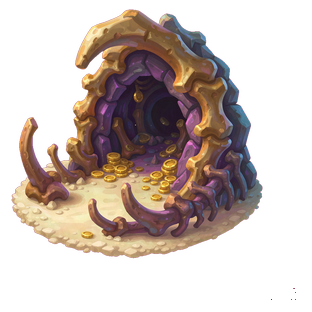
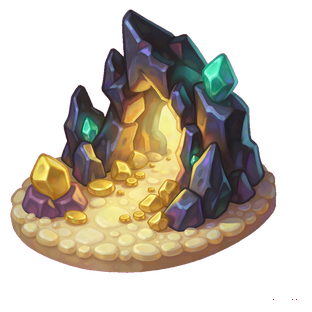
feat(art): 兵营V4风格统一与形态修订（10张：塔楼降级/维京长屋/去龙骨/去线稿提亮/冷色点缀）

diff --git a/tools/expand-barracks-v4-prompts.py b/tools/expand-barracks-v4-prompts.py
@@ -1,0 +1,147 @@
+#!/usr/bin/env python3
+# -*- coding: utf-8 -*-
+"""展开兵营 V4 迭代的完整 prompt（10 张）。
+
+- 02/10/40：形态修正（塔楼降级 / 维京长屋 / 去龙骨洞窟）
+- 07/14/25/29/31/32/33：形态不变，只统一画风（去线稿淡彩→圆润厚涂、提亮暗部、冷色点缀）
+
+风格锚点从 V2 方案文档逐字抽取，避免手抄漂移。
+用法: python3 tools/expand-barracks-v4-prompts.py
+输出: .workbuddy/art-staging/western-redraw-v4/prompts.json
+"""
+import json
+import re
+from pathlib import Path
+
+ROOT = Path(__file__).resolve().parent.parent
+DOC = (ROOT / "docs/art/ART-BARRACKS-V2-NONBUILDING-REDRAW.md").read_text(encoding="utf-8")
+
+
+def block(after):
+    i = DOC.index(after)
+    return re.search(r"```\n(.*?)\n```", DOC[i:], re.S).group(1).strip()
+
+
+SEG1 = block("### 段 1 ·")
+SEG1A = block("### 段 1A")
+SEG4 = block("### 段 4")
+NEG_BASE = block("### Negative prompt（B/C/D 档")
+NEG_AB = block("### Negative prompt · A/B 档")
+
+# 所有图共享的画风锚：去线稿 + 圆润厚涂 + 提亮暗部 + 冷色点缀
+STYLE_UNIFY = (
+    " CRITICAL STYLE MATCH — this must look like the SAME asset family as the rest of the barracks: "
+    "painterly thick-rounded brushwork, plump soft forms, smooth color transitions, chunky simplified shapes, "
+    "clean glossy candy-like highlights. NO black ink outlines, NO line art, NO sketch lines, NO flat cel shading, "
+    "NO black contour strokes around shapes, NO fine detailed linework. "
+    "Lift all dark shadow areas so the building reads clearly and never becomes a black mass; "
+    "shadows must be colored (indigo, teal or warm brown), NEVER pure black. "
+    "Add a few cool accent details (sky blue, teal or turquoise banners, gemstones, roof trim or magical glow) "
+    "to balance the otherwise warm gold palette. Keep it soft, round, bright and cartoon-like."
+)
+
+SCENE_FRAME = (
+    "Square 1:1 canvas, the whole scene centered slightly low, full scene including the elliptical stone "
+    "base fills about 82 percent of canvas width, 8 to 10 percent clean margin on all sides, no cropping, "
+    "no perspective drift, flat even framing."
+)
+BUILD_FRAME = (
+    "Square 1:1 canvas, building centered slightly low, full building including the elliptical stone base "
+    "fills about 82 percent of canvas width, 8 to 10 percent clean margin on all sides, no cropping, no "
+    "perspective drift, flat even framing."
+)
+
+NEG_EXTRA = (
+    "black outlines, line art, ink sketch, black contour, harsh dark edges, cel shading, flat shading, "
+    "pure black shadows, muddy dark mass, grayscale, monochrome, realistic texture, fine linework"
+)
+
+# kind, name, BUILDING/SCENE, MAT, ACC, SIG, PROP, SIGPCT, SIGW, SUBJ, EXTRA
+DATA = {
+    # --- 形态修正 3 张 ---
+    "02": ("build", "弓箭手-箭术训练场(降级对标剑士枪兵)",
+           "a modest Western fantasy archery training range, a low open timber shooting shelter with straw butt targets along a wooden fence and a small archery platform; deliberately simple and rustic like a training yard, NOT a grand stone castle tower, NOT high walls, NOT a tall spire",
+           "honey timber, straw and rope", "deep red and sky blue",
+           "a medium ornate red recurve bow mounted on the timber shelter as a simple emblem",
+           "straw targets, quivers and arrow racks", 25, 15, "building",
+           " The building must be simple and low-status, matching a plain swordsman training yard or spearman camp. NO tall stone tower, NO fortress, NO stained glass, NO flying buttresses."),
+    "10": ("build", "狂战士-维京长屋(修正形象)",
+           "a proper Norse Viking longhouse: a LONG low building with a curved boat-hull upside-down roof, carved dragon-head ornaments at both roof ends, dark rough timber plank walls, a row of round shields lining the front wall, animal-hide banners and a stone base",
+           "dark timber, grass turf and rough stone", "dark red and teal",
+           "a giant double-bladed battleaxe planted upright before the longhouse entrance",
+           "round shields, rune posts and animal skins", 35, 20, "building",
+           " The roof ends must curve like a Viking ship prow and stern, rounded and blunt — absolutely NO sharp upturned Eastern eaves, NO pagoda corners, NO Chinese roof tips."),
+    "40": ("scene", "古龙-纯岩洞窟入口(去骨)",
+           "a dark dragon lair CAVERN ENTRANCE in natural black and indigo rock, the cave mouth itself is the landmark, framed only by jagged natural rock formations, with scattered gold coins at the entrance",
+           "natural dark rock, crystals and treasure", "bronze gold and cool teal",
+           "the large arched cavern mouth with a warm gold glow inside and cool teal crystal glints on the rocks",
+           "scattered coins and gold nuggets at the entrance", 40, 20, "scene",
+           " ABSOLUTELY NO bones, NO skull, NO skeleton, NO rib bones, NO dragon bones anywhere. This is a LIVING dragon lair, the dragon is not dead. Dragon presence is hinted only by claw marks on the rock and glittering treasure."),
+
+    # --- 画风统一 7 张（形态不变）---
+    "07": ("build", "学徒-魔法书屋(画风统一)",
+           "a whimsical apprentice mage hut whose roof is shaped like a giant OPEN BOOK with cream pages, a small arched wooden door, a crescent-moon emblem on the facade, honey-brown timber and cream plaster walls, standing on an elliptical stone base",
+           "honey timber, cream plaster and paper", "gold and sky blue",
+           "the giant open-book roof with golden pages",
+           "a small wand rack and floating rune papers", 40, 30, "building", ""),
+    "14": ("build", "牧师-白金小教堂(画风统一)",
+           "a small white and cream chapel with a single slender bell spire topped by a golden cross, arched windows with pale blue stained glass, a rounded wooden door, warm cream stone walls, standing on an elliptical stone base",
+           "cream stone, pale timber and stained glass", "gold and pale sky blue",
+           "the slender golden bell spire with a cross at the top",
+           "arched blue stained-glass windows and a small bell", 40, 18, "building", ""),
+    "25": ("build", "法师-奥术塔(画风统一)",
+           "a squat mage tower with warm cream plaster walls, an orange terracotta roof and a glowing pink magical crystal at the top emitting soft sparkles, a round window and a small arched door, standing on an elliptical stone base",
+           "cream plaster, orange terracotta and crystal", "orange and magenta-pink with cool teal glow",
+           "the glowing pink magical crystal crowning the tower",
+           "floating sparkles and rune circles", 30, 18, "building", ""),
+    "29": ("build", "大法师-浮空塔(画风统一)",
+           "a tall ornate archmage tower of cream and gold stone, crowned by a floating golden orb encircled by rotating golden rings, a round clock-like window on the facade, stacked tiers and a small arched door, standing on an elliptical stone base",
+           "cream stone, gold metal and crystal", "gold with sky blue gemstones",
+           "the large floating golden orb with revolving rings at the top",
+           "blue gemstones and arcane runes", 30, 22, "building", ""),
+    "31": ("build", "死灵法师-哥特尖塔(画风统一,提亮)",
+           "a gothic necromancer spire with cream-white and pale lavender stone walls, slender pointed arches, tall thin towers and leaf-like ornaments, a green magical flame glowing at the very top; walls must stay LIGHT and readable, never a dark mass",
+           "pale cream stone, lavender stone and glass", "pale lavender and emerald green glow",
+           "the glowing emerald-green flame atop the tallest spire",
+           "pointed arch windows and small ghostly wisps", 35, 18, "building", ""),
+    "32": ("build", "吸血鬼-哥特城堡(画风统一,提亮)",
+           "a gothic vampire castle with pale rose and cream walls, multiple thin spires, pointed arch windows and delicate tracery, a small bat perched on the tallest tower; walls must stay LIGHT and readable, never a dark mass",
+           "pale rose stone, cream stone and glass", "dusty rose and cool violet",
+           "the tallest slender gothic spire with a small bat",
+           "pointed windows and rose details", 35, 18, "building", ""),
+    "33": ("build", "蒸汽坦克-黄铜锅炉(画风统一)",
+           "a whimsical steam tank vehicle shaped like a large brass boiler on a tracked chassis, a round front hatch, riveted golden-brass panels, a small chimney puffing soft white steam, built on an elliptical stone display base",
+           "polished brass, gold metal and timber", "gold and sky blue accents",
+           "the big round riveted brass boiler drum with a glowing blue gauge",
+           "steam puffs, gears and small wheels", 40, 30, "building", ""),
+}
+
+
+def main():
+    out = {}
+    for n, (kind, name, subj, mat, acc, sig, prop, pct, w, subjnoun, extra) in DATA.items():
+        body = (
+            "A {BUILDING} for a fantasy unit barracks. Constructed from {MAT}, with {ACC} as the dominant "
+            "accent color, echoing the unit character art. One dominant oversized signature object dominates "
+            "the scene: {SIG}. This single signature object must occupy at least {SIGPCT} percent of the {SUBJ} "
+            "height and at least {SIGW} percent of the canvas width; it must read clearly when scaled down to "
+            "10 percent. All other details, including {PROP}, are secondary and quieter. The architecture must "
+            "clearly express this unit role and be unmistakably Western fantasy medieval, not Eastern."
+        ).format(BUILDING=subj, MAT=mat, ACC=acc, SIG=sig, PROP=prop, SIGPCT=pct, SIGW=w, SUBJ=subjnoun)
+        frame = SCENE_FRAME if kind == "scene" else BUILD_FRAME
+        base = SEG1A if kind == "scene" else SEG1
+        neg = NEG_BASE + ", " + NEG_AB + ", " + NEG_EXTRA
+        prompt = (base + "\n\n" + body + extra + STYLE_UNIFY + "\n\n" + frame +
+                  "\n\n" + SEG4 + "\n\nNegative prompt: " + neg)
+        out[n] = {"name": name, "prompt": prompt}
+
+    dst = ROOT / ".workbuddy/art-staging/western-redraw-v4/prompts.json"
+    dst.parent.mkdir(parents=True, exist_ok=True)
+    dst.write_text(json.dumps(out, ensure_ascii=False, indent=2), encoding="utf-8")
+    print(f"wrote {len(out)} prompts -> {dst}")
+    for n, v in out.items():
+        print(n, v["name"], len(v["prompt"]))
+
+
+if __name__ == "__main__":
+    main()
